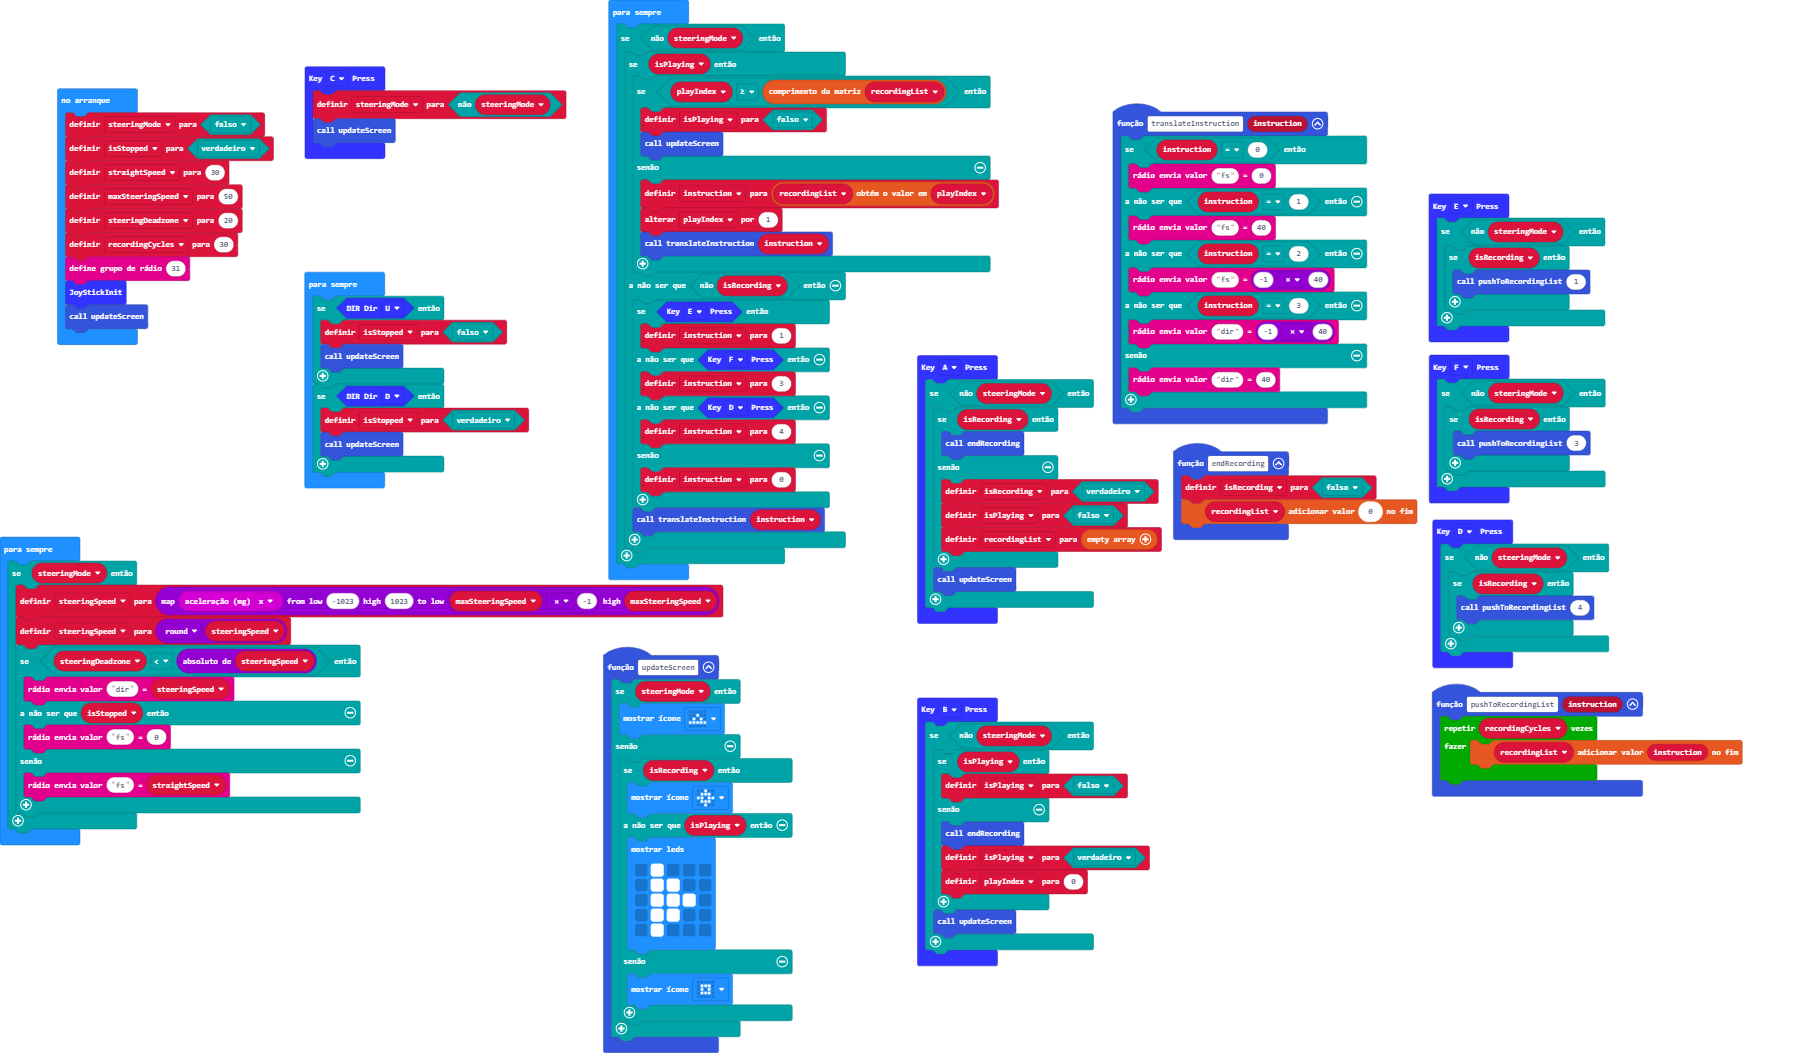
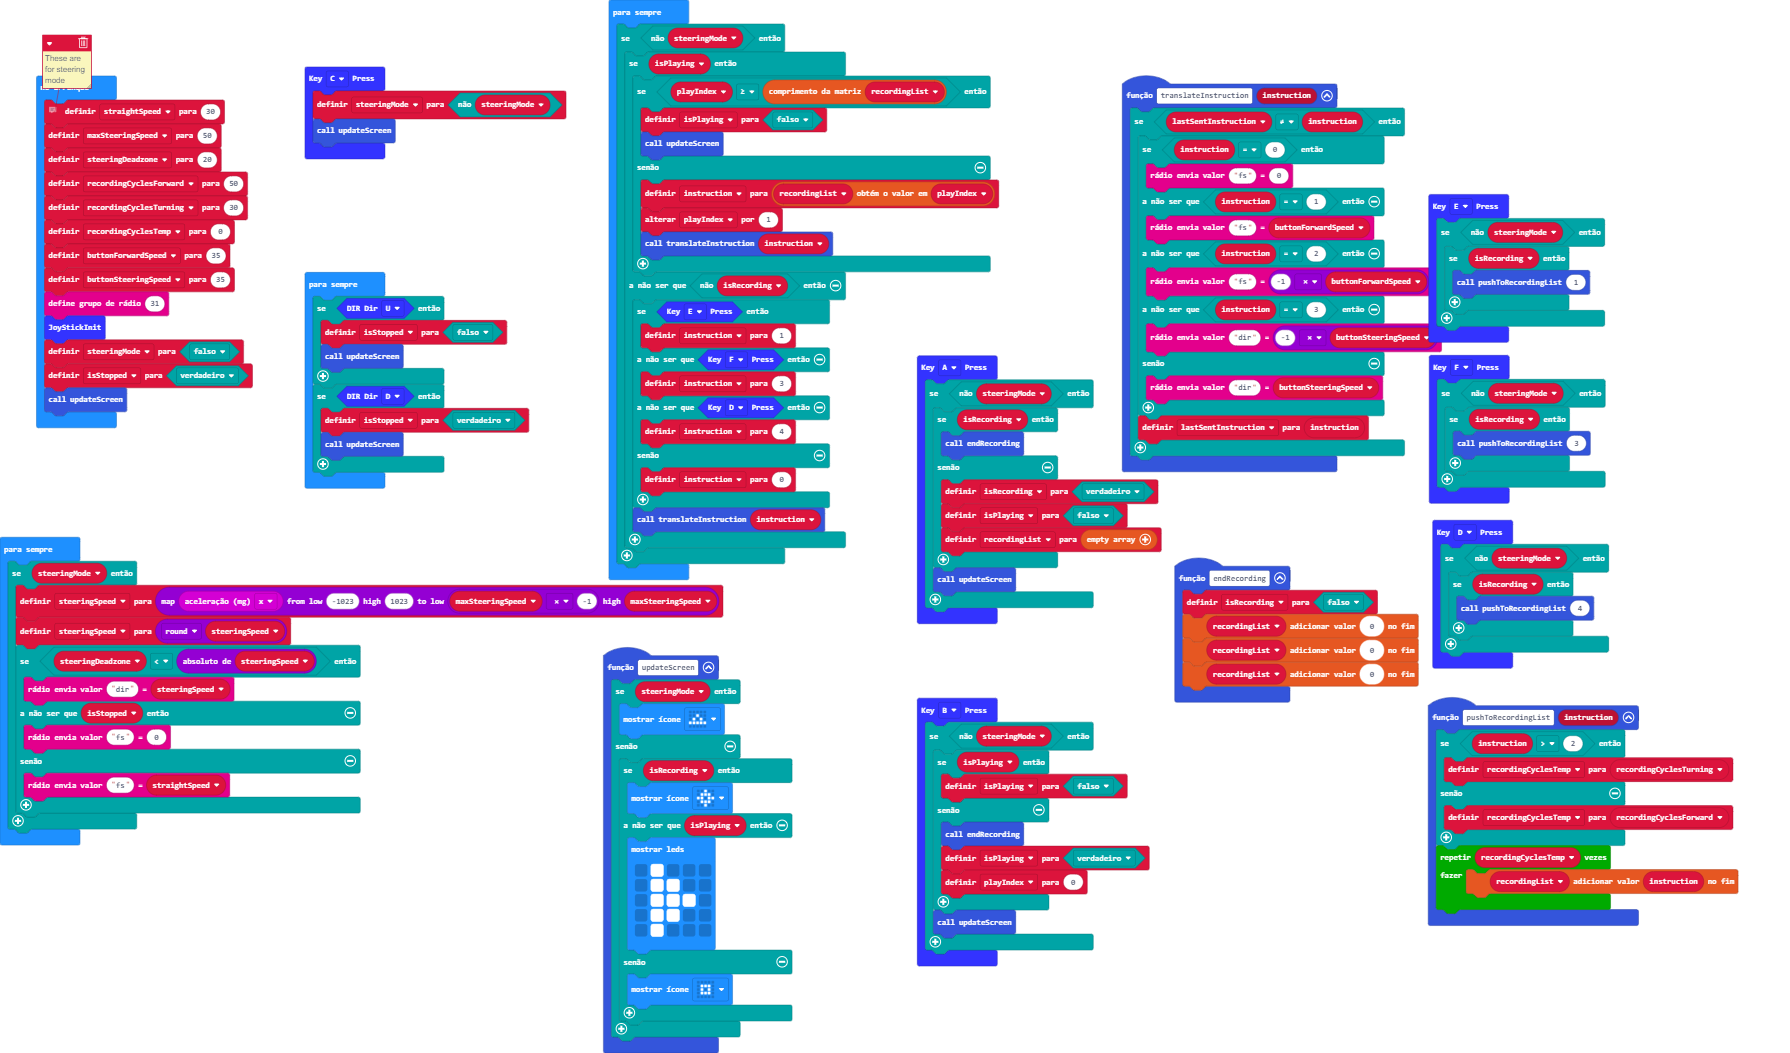
Update pxt.json, main.blocks, main.ts

diff --git a/main.ts b/main.ts
@@ -25,21 +25,29 @@ function updateScreen () {
     }
 }
 function pushToRecordingList (instruction: number) {
-    for (let index = 0; index < recordingCycles; index++) {
+    if (instruction > 2) {
+        recordingCyclesTemp = recordingCyclesTurning
+    } else {
+        recordingCyclesTemp = recordingCyclesForward
+    }
+    for (let index = 0; index < recordingCyclesTemp; index++) {
         recordingList.push(instruction)
     }
 }
 function translateInstruction (instruction: number) {
-    if (instruction == 0) {
-        radio.sendValue("fs", 0)
-    } else if (instruction == 1) {
-        radio.sendValue("fs", 40)
-    } else if (instruction == 2) {
-        radio.sendValue("fs", -1 * 40)
-    } else if (instruction == 3) {
-        radio.sendValue("dir", -1 * 40)
-    } else {
-        radio.sendValue("dir", 40)
+    if (lastSentInstruction != instruction) {
+        if (instruction == 0) {
+            radio.sendValue("fs", 0)
+        } else if (instruction == 1) {
+            radio.sendValue("fs", buttonForwardSpeed)
+        } else if (instruction == 2) {
+            radio.sendValue("fs", -1 * buttonForwardSpeed)
+        } else if (instruction == 3) {
+            radio.sendValue("dir", -1 * buttonSteeringSpeed)
+        } else {
+            radio.sendValue("dir", buttonSteeringSpeed)
+        }
+        lastSentInstruction = instruction
     }
 }
 WSJoyStick.onKey(KEY.A, function () {
@@ -63,6 +71,8 @@ WSJoyStick.onKey(KEY.E, function () {
 })
 function endRecording () {
     isRecording = false
+    recordingList.push(0)
+    recordingList.push(0)
     recordingList.push(0)
 }
 WSJoyStick.onKey(KEY.D, function () {
@@ -91,19 +101,29 @@ WSJoyStick.onKey(KEY.C, function () {
 let steeringSpeed = 0
 let instruction = 0
 let playIndex = 0
+let lastSentInstruction = 0
 let recordingList: number[] = []
 let isPlaying = false
 let isRecording = false
-let recordingCycles = 0
 let steeringMode = false
-steeringMode = false
-let isStopped = true
+let buttonSteeringSpeed = 0
+let buttonForwardSpeed = 0
+let recordingCyclesTemp = 0
+let recordingCyclesTurning = 0
+let recordingCyclesForward = 0
+// These are for steering mode
 let straightSpeed = 30
 let maxSteeringSpeed = 50
 let steeringDeadzone = 20
-recordingCycles = 30
+recordingCyclesForward = 50
+recordingCyclesTurning = 30
+recordingCyclesTemp = 0
+buttonForwardSpeed = 35
+buttonSteeringSpeed = 35
 radio.setGroup(31)
 WSJoyStick.JoyStickInit()
+steeringMode = false
+let isStopped = true
 updateScreen()
 basic.forever(function () {
     if (!(steeringMode)) {
